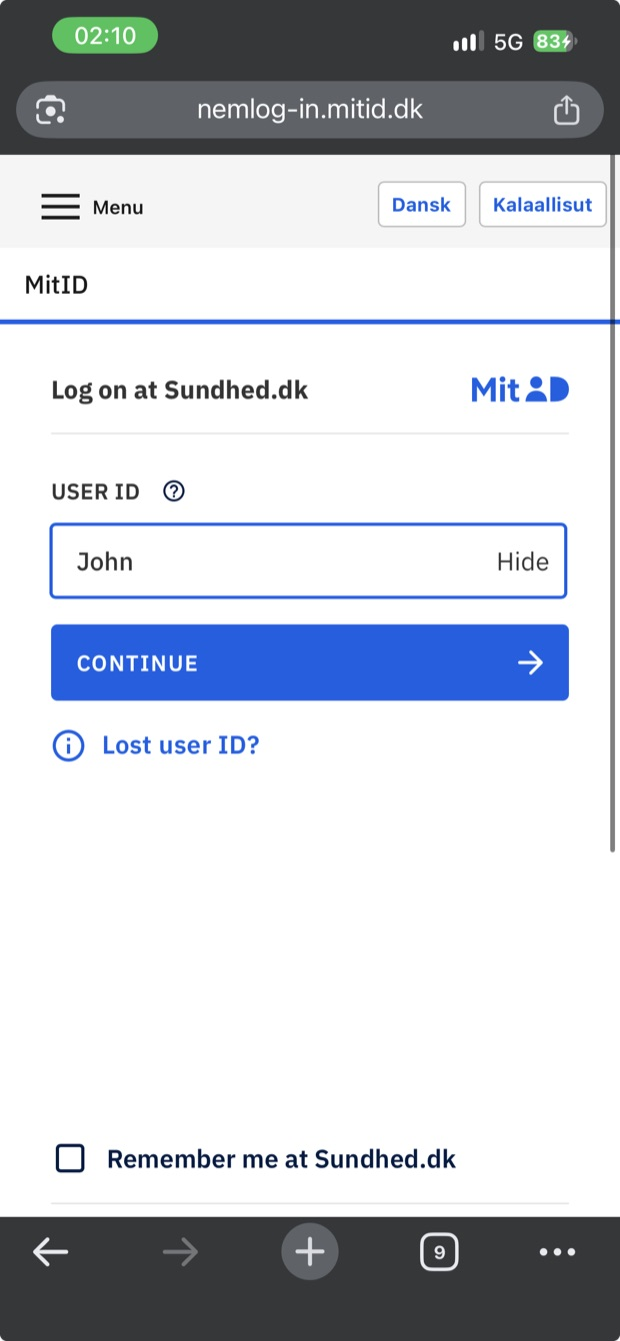
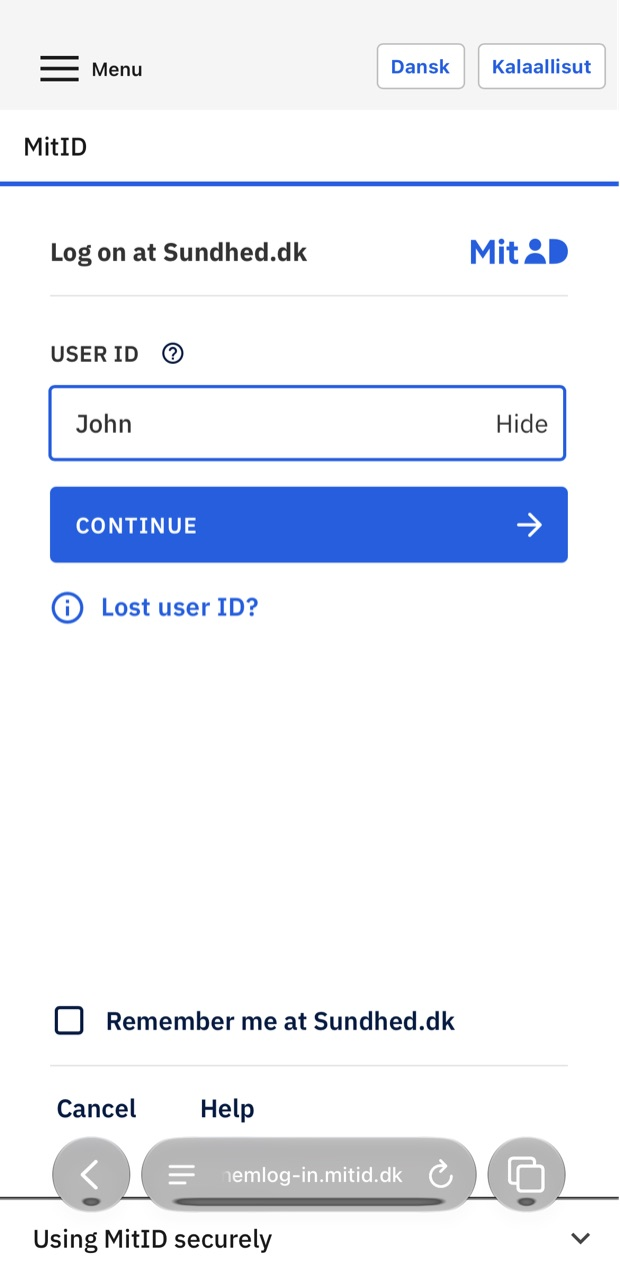
Use the cleaner MitID login screenshot

diff --git a/docs/index.html b/docs/index.html
@@ -143,6 +143,7 @@
   .screen { width: 100%; height: 100%; border-radius: 28px; overflow: hidden; background: #f2f2f7; position: relative; display: flex; flex-direction: column; color: #1d1d1f; }
   .island { position: absolute; top: 8px; left: 50%; translate: -50% 0; width: 32%; height: 17px; border-radius: 10px; background: #000; }
   .shot { display: block; width: 100%; height: 100%; object-fit: cover; object-position: top; }
+  .screen.web { padding-top: 30px; background: #f4f4f4; }
   .approve { flex: 1; display: flex; flex-direction: column; align-items: center; justify-content: center; gap: 10px; padding: 34px 14px 14px; text-align: center; background: #fff; }
   .approve .seal { width: 46px; height: 46px; border-radius: 50%; background: #0060e6; display: grid; place-items: center; }
   .approve .seal svg { width: 22px; height: 22px; }
@@ -369,8 +370,8 @@
         </div>
         <div>
           <div class="scene s2" aria-hidden="true">
-            <div class="phone"><div class="screen"><div class="island"></div>
-              <img class="shot" src="mitid-login.jpg" alt="The MitID login on NemLog-in: Log on at Sundhed.dk, with a user ID field and a Continue button" width="620" height="1342" loading="lazy">
+            <div class="phone"><div class="screen web"><div class="island"></div>
+              <img class="shot" src="mitid-login.jpg" alt="The MitID login on NemLog-in: Log on at Sundhed.dk, with a user ID field and a Continue button" width="620" height="1268" loading="lazy">
             </div></div>
             <div class="glow"></div>
           </div>
